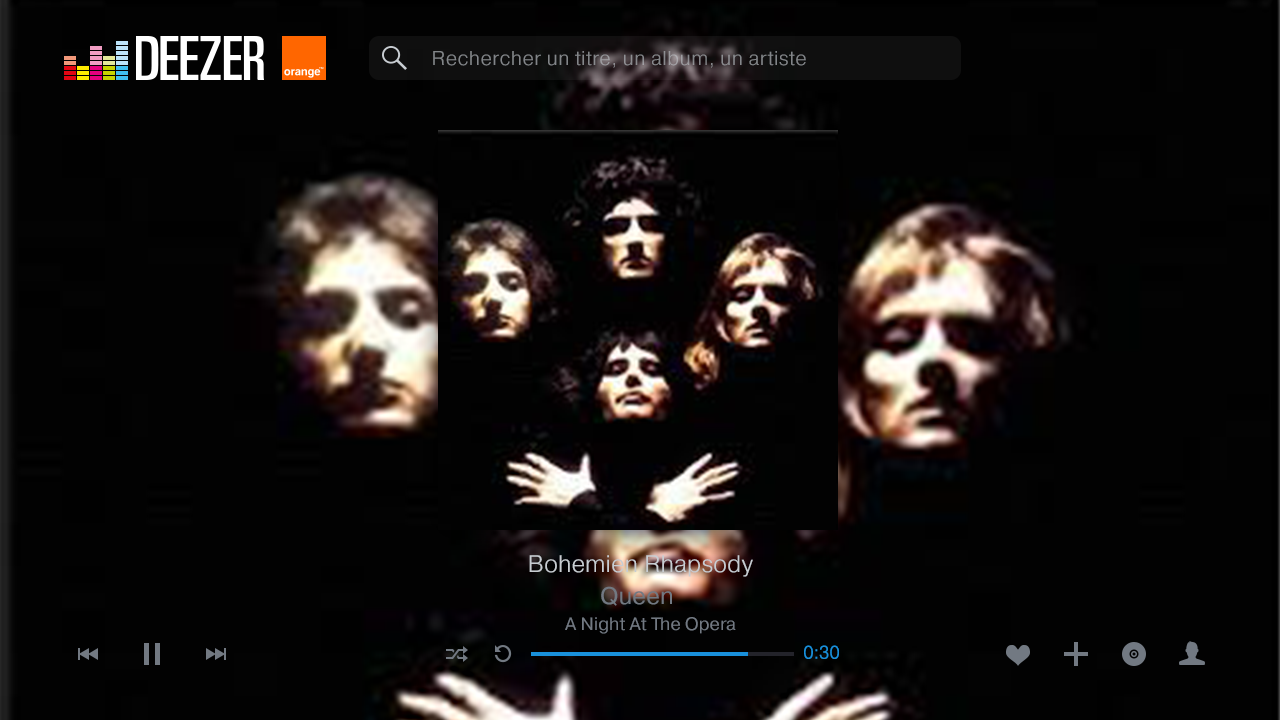
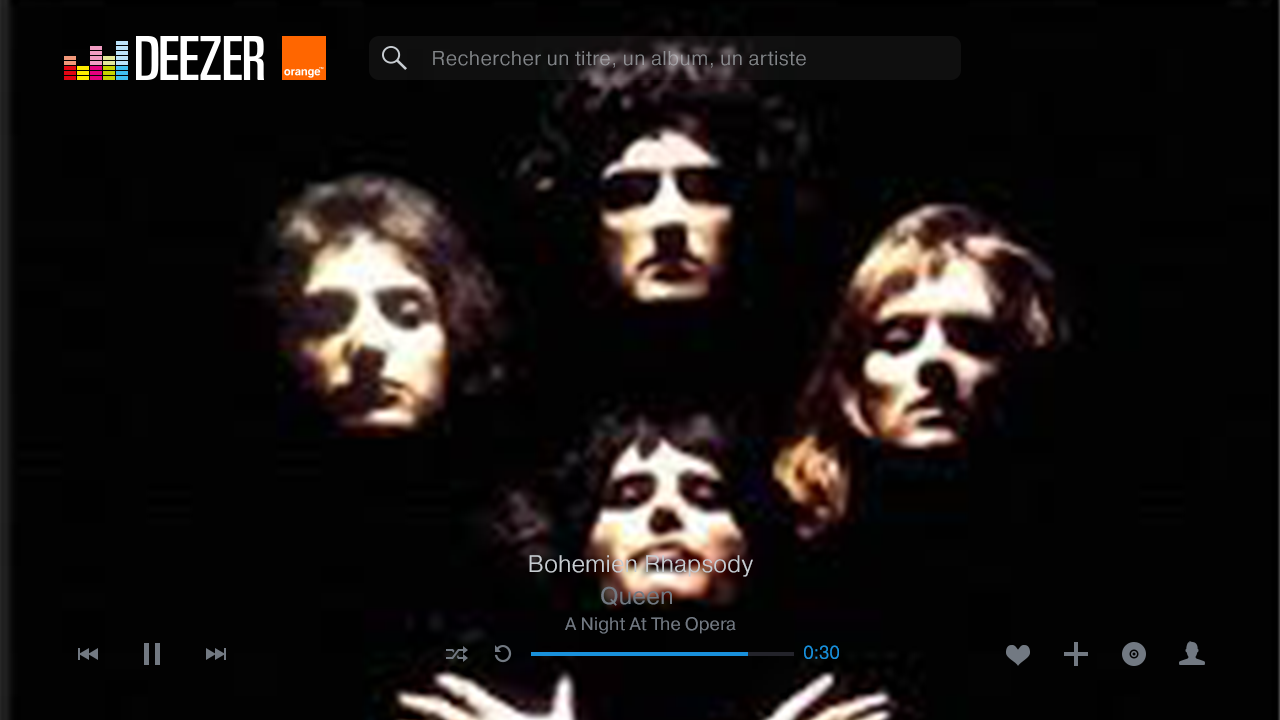
Make the cover appear and disappear

Changed region(s): [[0.375, 0.1833, 0.6562, 0.7639], [0.3125, 0.275, 0.4375, 0.55], [0.4062, 0.2139, 0.4375, 0.275]]

diff --git a/Deezer-lyrics/index.html b/Deezer-lyrics/index.html
@@ -19,15 +19,22 @@
   <script type="text/javascript">
     var lyricsOff = $('.micro-off');
     var lyricsOn = $('.micro-on');
+    var cover = $('.artwork-container');
+
+    var transEnd = 'webkitTransitionEnd otransitionend oTransitionEnd msTransitionEnd transitionend';
 
     lyricsOff.click(function(){
       lyricsOff.css("display", "none");
       lyricsOn.css("display", "block");
+      cover.addClass("artwork-fade-out");
+      cover.removeClass("artwork-fade-in");
     });
 
     lyricsOn.click(function(){
       lyricsOn.css("display", "none");
       lyricsOff.css("display", "block");
+      cover.addClass("artwork-fade-in");
+      cover.removeClass("artwork-fade-out");
     });
 
 </script>

diff --git a/Deezer-lyrics/css/style.css b/Deezer-lyrics/css/style.css
@@ -21,7 +21,18 @@ body {
   height: 400px;
   top: 140px;
   left: 448px;
-  z-index: 3; }
+  z-index: 3;
+  background: url("../img/artwork.png"); }
+  .artwork-container.artwork-fade-in {
+    opacity: 1;
+    -webkit-transition: opacity 0.5s ease-out;
+    -moz-transition: opacity 0.5s ease-out;
+    transition: opacity 0.5s ease-out; }
+  .artwork-container.artwork-fade-out {
+    opacity: 0;
+    -webkit-transition: opacity 0.5s ease-in;
+    -moz-transition: opacity 0.5s ease-in;
+    transition: opacity 0.5s ease-in; }
 
 .content {
   position: absolute;

diff --git a/Deezer-lyrics/scss/style.scss b/Deezer-lyrics/scss/style.scss
@@ -33,6 +33,16 @@ body {
   top: 140px;
   left: 448px;
   z-index: 3;
+  background: url('../img/artwork.png');
+
+  &.artwork-fade-in {
+    opacity: 1;
+    @include transition(opacity 0.5s ease-out);
+  }
+  &.artwork-fade-out {
+    opacity: 0;
+    @include transition(opacity 0.5s ease-in);
+  }
 }
 
 .content {
